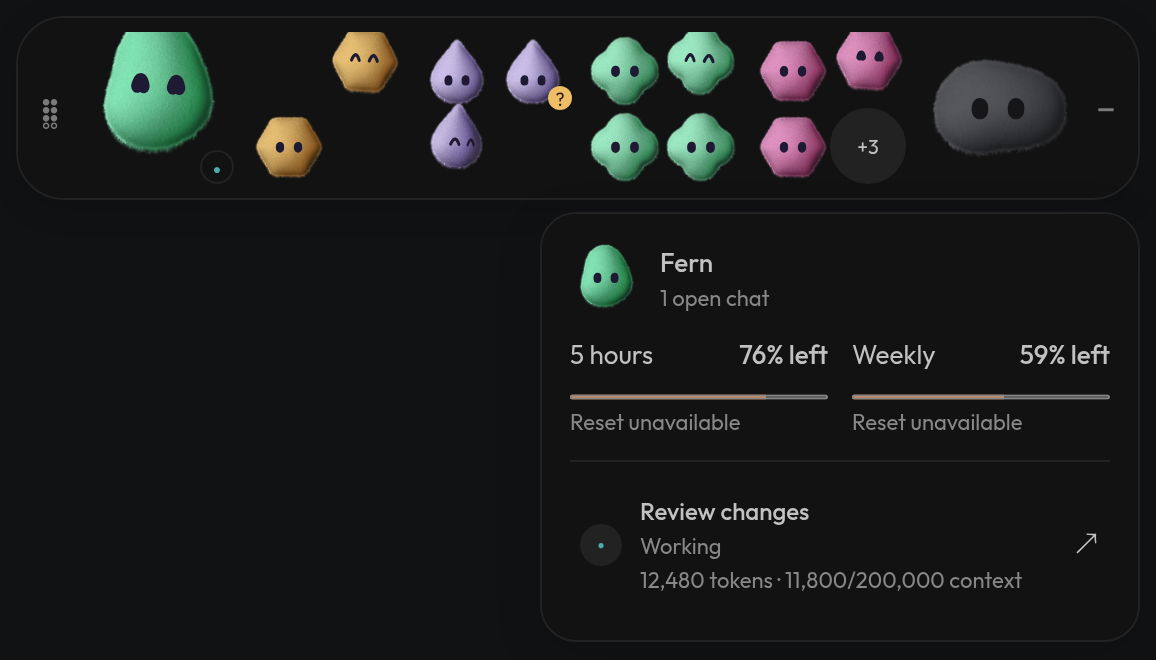
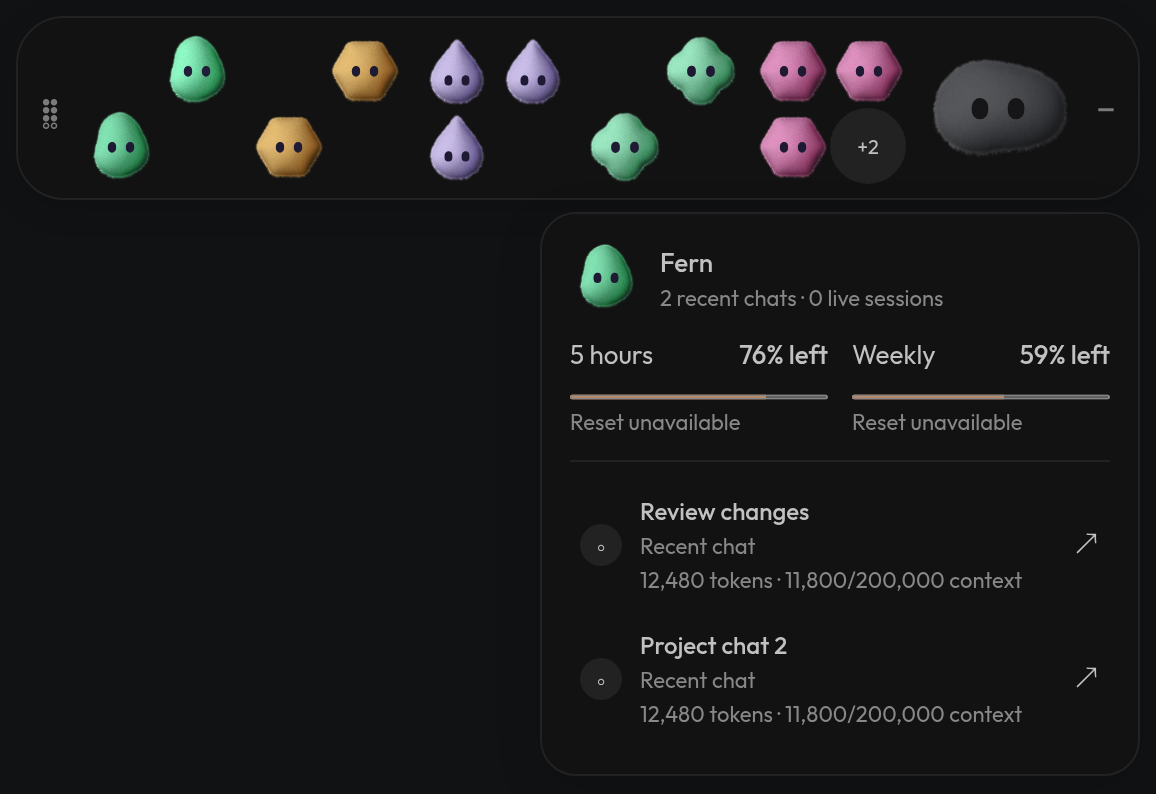
updated 1.7.2 downloads and the orbit guide

diff --git a/next/app/docs/page.tsx b/next/app/docs/page.tsx
@@ -11,7 +11,7 @@ const sections = [["orbit", "Orbit and Orbiters"], ["cli", "Command-line interfa
 export default function Docs() {
   return <main id="main" className="docs-layout page-width"><aside className="docs-sidebar"><p className="eyebrow">THE FIELD GUIDE</p><nav aria-label="Documentation sections">{sections.map(([id, label]) => <a key={id} href={`#${id}`}>{label}</a>)}</nav><a className="sidebar-source" href={repository}>Browse the source ↗</a></aside><article className="docs-content">
     <div className="docs-intro"><p className="eyebrow">GET COMFORTABLE</p><h1>A workspace<br />for each account.</h1><p>Everything you need to install Multi Codex and get your accounts working side by side.</p></div>
-    <section id="orbit"><p className="eyebrow">YOUR DESKTOP COMPANIONS</p><h2>Meet your Orbiters.</h2><p>Orbit brings live Codex Desktop sessions, usage and quiet reminders into a small companion strip. Turn it on or off in Settings; hover for details and click to return to the right chat.</p><Link className="text-link" href="/docs/orbit">Orbit setup and desktop support →</Link></section><section id="cli"><p className="eyebrow">FROM YOUR TERMINAL</p><h2>One account store, a terminal interface.</h2><p>The macOS/Linux CLI manages saved accounts, usage, workspaces and storage through the same native services as the desktop app. Linux x64 is verified on the development laptop; native macOS and ARM64 validation is tracked separately.</p><Link className="text-link" href="/docs/cli">CLI commands, installation and recovery →</Link></section><section id="installation"><span className="section-index">01 / INSTALLATION</span><h2>Start with the launcher.</h2><p>Choose your platform below. On Windows, download the .exe and double-click it to install. The optional install commands download the latest release, verify its checksum, and install the app.</p><InstallBox /><div className="doc-note"><strong>Platform support</strong><p>Linux packages target x86_64: AppImage, DEB and RPM. Mac builds target Apple Silicon on macOS 26 or newer. Windows installers target native x64. The Mac release is unsigned and unnotarized, so the command includes an explicit opt-in.</p><a href="/docs/platform-support">See platform requirements and validation →</a></div><p>Prefer a manual install? Download a package from <a href={latestRelease}>GitHub Releases</a>.</p></section>
+    <section id="orbit"><p className="eyebrow">YOUR DESKTOP COMPANIONS</p><h2>Meet your Orbiters.</h2><p>Orbit keeps two recent Desktop chats per account available while idle, alongside VS Code windows, usage and quiet reminders. Turn it on or off in Settings; hover for details and click to return to the right chat.</p><Link className="text-link" href="/docs/orbit">Orbit setup and desktop support →</Link></section><section id="cli"><p className="eyebrow">FROM YOUR TERMINAL</p><h2>One account store, a terminal interface.</h2><p>The macOS/Linux CLI manages saved accounts, usage, workspaces and storage through the same native services as the desktop app. Linux x64 is verified on the development laptop; native macOS and ARM64 validation is tracked separately.</p><Link className="text-link" href="/docs/cli">CLI commands, installation and recovery →</Link></section><section id="installation"><span className="section-index">01 / INSTALLATION</span><h2>Start with the launcher.</h2><p>Choose your platform below. On Windows, download the .exe and double-click it to install. The optional install commands download the latest release, verify its checksum, and install the app.</p><InstallBox /><div className="doc-note"><strong>Platform support</strong><p>Linux packages target x86_64: AppImage, DEB and RPM. Mac builds target Apple Silicon on macOS 26 or newer. Windows installers target native x64. The Mac release is unsigned and unnotarized, so the command includes an explicit opt-in.</p><a href="/docs/platform-support">See platform requirements and validation →</a></div><p>Prefer a manual install? Download a package from <a href={latestRelease}>GitHub Releases</a>.</p></section>
     <section id="vscode"><span className="section-index">VS CODE EXTENSION</span><h2>Switch accounts in the window you’re using.</h2><p>Install the free pre-release of <a href={vscodeMarketplace}>Multi Codex from the VS Code Marketplace</a>. It works with the official Codex extension on Linux x64, macOS 26+ on Intel and Apple Silicon, and Windows x64. The desktop app and a separate Codex CLI installation are optional.</p><p>For version 0.2.1, download the matching <a href="https://github.com/wrestle-R/multi-codex/releases/tag/v1.4.1">platform VSIX from GitHub</a> and use <strong>Extensions: Install from VSIX…</strong> if the version or platform is not available in Marketplace yet.</p><ol className="doc-steps"><li><strong>Open Multi Codex in the activity bar</strong><p>The extension reads the same local account store as the desktop app. Your saved accounts appear automatically under the same OS user.</p></li><li><strong>Add an account if you’re starting fresh</strong><p>Use + at the top of Accounts to sign in with a browser or import an existing login. Adding an account here also makes it available to the desktop app.</p></li><li><strong>Click the account you want to use</strong><p>The extension connects switching automatically on compatible Codex builds. It keeps the current window and chat open, and blocks switching during observed active work or approvals.</p></li><li><strong>Check all accounts at once</strong><p>Use Check Usage at the top of Accounts to refresh every saved account. Remaining limits and reset times appear beside each name, with progress while checking. Use an account’s usage icon to check just that account. Refresh reads account changes from the desktop app.</p></li></ol><a className="button primary" href={vscodeMarketplace}>Install the pre-release <span aria-hidden="true">↗</span></a><div className="doc-note"><strong>Compatibility</strong><p>This preview uses private Codex integration hooks. Clear queued follow-ups before switching. If a backend is incompatible, the extension shows an error and keeps the window open. Local VS Code is supported; remote SSH, containers, WSL and browser editors are not supported.</p><a href="/docs/extension">Read extension compatibility details →</a></div><p>If saved desktop accounts are missing, check that VS Code runs as the same OS user. For a custom account store, set <strong>Multi Codex: Data Directory</strong> to the desktop app’s account directory and use Refresh.</p></section>
     <section id="menu-bar"><span className="section-index">MAC MENU BAR</span><h2>Your accounts, a click away.</h2><p>Use the Multi Codex icon at the top of your Mac. Pick an account, then choose <strong>Open VS Code</strong>, <strong>Open Codex</strong>, or <strong>Open CLI</strong>. Each submenu shows only installed supported apps. Launching uses the same folder preferences and safety checks as the main window.</p><p><strong>Open Multi Codex</strong> restores the maximized window. <strong>Refresh All Usage</strong> checks every saved account. Closing the window keeps the app in the menu bar; <strong>Quit Multi Codex</strong> fully exits the launcher.</p><p>Quitting Multi Codex leaves separately launched VS Code, Codex and CLI sessions open.</p></section>
     <section id="first-account"><span className="section-index">02 / YOUR FIRST ACCOUNT</span><h2>Add a login of your own.</h2><p>Open Multi Codex, click <strong>Add account</strong>, give it a name, and choose how to connect it:</p><ol className="doc-steps"><li><strong>Sign in with browser</strong><p>Follow the sign-in link and enter the one-time code to connect a ChatGPT account.</p></li><li><strong>Import current</strong><p>Save a copy of your existing Codex login. Your original login stays in place.</p></li><li><strong>Paste JSON</strong><p>Paste an existing Codex <code>auth.json</code> into the desktop app. Keep it private; never paste credentials into a website or GitHub issue.</p></li></ol><p>Accounts appear in plan order: Pro, Plus, Go, then Free. Usage refreshes when the app opens.</p></section>

diff --git a/next/app/page.tsx b/next/app/page.tsx
@@ -16,7 +16,7 @@ export default function Home() {
       <Link className="text-link" href="/docs/cli">Use Multi Codex from a terminal <span aria-hidden="true">→</span></Link><p className="platform-line"><span>Linux</span><span>Apple Silicon Mac</span><span>Windows x64</span><span>Open source</span></p>
     </div><div className="hero-visual"><div className="visual-label"><span>ONE LAUNCHER, YOUR WHOLE LINEUP</span><span aria-hidden="true">ACCOUNT DASHBOARD</span></div><div className="screenshot-frame"><ThemedScreenshot light={accountsLight} dark={accountsDark} alt="Multi Codex account dashboard showing separate accounts, usage limits and launch buttons for VS Code, Codex and CLI" priority sizes="(max-width: 900px) 100vw, 60vw" /></div><div className="visual-footnote"><span className="small-mark" aria-hidden="true">↳</span>Everything in its own space.<span className="caption-end">Your default login stays yours.</span></div></div></section>
     <section className="feature-strip page-width" aria-label="Features"><div><span className="feature-number">01</span><h2>Accounts stay separate.</h2><p>Each account has its own saved sign-in, app data and memory. Shared chats keep their full history.</p></div><div><span className="feature-number">02</span><h2>Launch your way.</h2><p>VS Code, Codex desktop, or CLI in your favorite installed terminal.</p></div><div><span className="feature-number">03</span><h2>Keep an eye on usage.</h2><p>Limits at a glance, with quiet reminders before your usage resets expire.</p></div></section>
-    <section id="orbit" className="orbit-section page-width" aria-labelledby="orbit-title"><div><p className="eyebrow">PREVIEW · MEET YOUR ORBITERS</p><h2 id="orbit-title">A little Orbit.<br />A closer look.</h2><p>Keep Codex Desktop accounts in view. Your Orbiters show live sessions and quiet reminders. Hover for usage; click to return to the right chat.</p><p className="orbit-compatibility">macOS 26+ · Hyprland · GNOME · KDE</p><Link className="text-link" href="/docs/orbit">Set up Orbit <span aria-hidden="true">→</span></Link></div><div className="orbit-screenshot"><Image src={orbitScreenshot} alt="Orbiters with live session dots and expanded usage, shown with fictional accounts" sizes="(max-width: 900px) 90vw, 58vw" /></div></section>
+    <section id="orbit" className="orbit-section page-width" aria-labelledby="orbit-title"><div><p className="eyebrow">MEET YOUR ORBITERS</p><h2 id="orbit-title">A little Orbit.<br />A closer look.</h2><p>Keep two recent Desktop chats per account within reach, even while idle. Your Orbiters also show VS Code windows and quiet reminders. Hover for usage; click to return to the right chat.</p><p className="orbit-compatibility">macOS 26+ · Hyprland · GNOME · KDE</p><Link className="text-link" href="/docs/orbit">Set up Orbit <span aria-hidden="true">→</span></Link></div><div className="orbit-screenshot"><Image src={orbitScreenshot} alt="Orbiters with live session dots and expanded usage, shown with fictional accounts" sizes="(max-width: 900px) 90vw, 58vw" /></div></section>
     <section className="getting-started page-width"><div><p className="eyebrow">SMALL SETUP. MORE ROOM TO WORK.</p><h2>Up and running<br />in a few minutes.</h2><p>Install the launcher. Add an account. Choose a folder and make it your own.</p><Link className="text-link" href="/docs#first-account">Follow the quick start <span aria-hidden="true">→</span></Link></div><InstallBox /></section>
     <section id="vscode" className="extension-section page-width" aria-labelledby="extension-title"><div><p className="eyebrow">ALREADY IN VS CODE?</p><h2 id="extension-title">Your accounts.<br />The same window.</h2><p>Use your saved desktop accounts inside VS Code, or start with the extension on its own. Choose an account to switch the current Codex panel and check its usage.</p><a className="button primary" href={vscodeMarketplace}>Install from Marketplace <span aria-hidden="true">↗</span></a><p className="extension-platforms">Free pre-release · Linux x64 · macOS 26+ on Intel and Apple Silicon · Windows x64</p></div><div className="extension-steps"><ol><li><span>01</span><div><h3>Install the extension</h3><p>Choose the pre-release of Multi Codex. The official Codex extension is required; the desktop app and Codex CLI are optional.</p></div></li><li><span>02</span><div><h3>Find your saved accounts</h3><p>Open Multi Codex in the activity bar. Existing desktop accounts appear automatically. Use + to add your first account if you’re starting fresh.</p></div></li><li><span>03</span><div><h3>Choose an account</h3><p>Click its row to use it in the current Codex window. Switching is blocked while Codex is working.</p></div></li></ol><Link className="text-link" href="/docs#vscode">Extension setup and compatibility <span aria-hidden="true">→</span></Link></div></section>
     <section className="notes-section page-width"><div><p className="eyebrow">A FEW THOUGHTFUL DETAILS</p><h2>Fits into your day.</h2></div><div className="detail-list"><article><span aria-hidden="true">⌘</span><div><h3>Your terminal, your choice</h3><p>Choose Kitty, Ghostty, Terminal, Konsole and other supported terminals in Launch settings.</p></div></article><article><span aria-hidden="true">◷</span><div><h3>A heads-up before resets expire</h3><p>Available resets expiring within 48 hours appear together. At most twice a day, at least four hours apart.</p></div></article><article><span aria-hidden="true">◐</span><div><h3>Six palettes. Light and dark.</h3><p>Sage, Ocean, Sand, Rose, Plum and Orange. A quieter home for your accounts, whatever the hour.</p></div></article></div></section>

diff --git a/next/tests/site.spec.ts b/next/tests/site.spec.ts
@@ -19,12 +19,12 @@ test("extension installation links use the public Marketplace and explain shared
 })
 
 test("changelog groups selected updates by series and preserves version links and permalinks", async ({ page }) => {
-  const tags = ["v1.7.1", "v1.7.0", "v1.6.1", "v1.5.3", "v1.5.2", "v1.5.1", "v1.5.0", "v1.4.1", "v1.4.0", "v1.3.8", "v1.3.7", "v1.3.6", "v1.3.5", "v1.2.3", "v1.2.1", "v1.2.0", "v1.1.7", "v1.1.6", "v1.1.3", "v1.1.2", "v1.1.1", "v1.0.2", "v1.0.0", "v0.2.0", "v0.1.1", "v0.1.0"]
+  const tags = ["v1.7.2", "v1.7.1", "v1.7.0", "v1.6.1", "v1.5.3", "v1.5.2", "v1.5.1", "v1.5.0", "v1.4.1", "v1.4.0", "v1.3.8", "v1.3.7", "v1.3.6", "v1.3.5", "v1.2.3", "v1.2.1", "v1.2.0", "v1.1.7", "v1.1.6", "v1.1.3", "v1.1.2", "v1.1.1", "v1.0.2", "v1.0.0", "v0.2.0", "v0.1.1", "v0.1.0"]
   await page.goto("/releases?channel=all")
   const groups = page.locator(".release-group")
   await expect(groups).toHaveCount(10)
   expect(await groups.locator(".release-group-heading .eyebrow").allTextContents()).toEqual(["1.7.x", "1.6.x", "1.5.x", "1.4.x", "1.3.x", "1.2.x", "1.1.x", "1.0.x", "0.2.x", "0.1.x"])
-  await expect(page.locator(".release-history-summary")).toContainText("Latest stable: v1.7.1")
+  await expect(page.locator(".release-history-summary")).toContainText("Latest stable: v1.7.2")
   await expect(page.locator(".release-history-summary")).toContainText("Selected updates")
   const timeline = page.locator(".release-timeline")
   const entries = timeline.locator(":scope > li")
@@ -40,7 +40,7 @@ test("changelog groups selected updates by series and preserves version links an
     expect(await entry.locator("article li").count()).toBeGreaterThanOrEqual(1)
     await expect(entry.getByRole("link", { name: `Full release details for ${tag} →` })).toHaveAttribute("href", `/releases/${tag}`)
   }
-  await expect(page.locator("#v1\\.7\\.1")).toContainText("Latest stable")
+  await expect(page.locator("#v1\\.7\\.2")).toContainText("Latest stable")
   await expect(page.getByText("Latest stable", { exact: true })).toHaveCount(1)
   await timeline.getByRole("link", { name: "v0.1.0 permalink", exact: true }).click()
   await expect(page).toHaveURL(/#v0\.1\.0$/)
@@ -74,7 +74,7 @@ test("showcase, docs and changelog navigate with working release links and no ho
     await page.goto(url)
     await expect(page.getByRole("heading", { level: 1, name: heading })).toBeVisible()
     expect(await page.evaluate(() => document.documentElement.scrollWidth)).toBeLessThanOrEqual(page.viewportSize()!.width)
-    await expect(page.getByRole("navigation", { name: "Main navigation" }).getByRole("link", { name: "Download" })).toHaveAttribute("href", "https://github.com/wrestle-R/multi-codex/releases/tag/v1.7.1")
+    await expect(page.getByRole("navigation", { name: "Main navigation" }).getByRole("link", { name: "Download" })).toHaveAttribute("href", "https://github.com/wrestle-R/multi-codex/releases/tag/v1.7.2")
   }
   await page.getByRole("navigation", { name: "Main navigation" }).getByRole("link", { name: "Docs", exact: true }).click()
   await expect(page).toHaveURL(/\/docs$/)
@@ -122,7 +122,7 @@ test("Windows commands, menu-bar behavior and migrated detailed guides are acces
   await page.goto("/docs")
   const install = page.locator("#installation .install-box")
   await install.getByRole("button", { name: "Windows", exact: true }).click()
-  const installerUrl = "https://github.com/wrestle-R/multi-codex/releases/download/v1.7.1/Multi.Codex_1.7.1_x64-setup.exe"
+  const installerUrl = "https://github.com/wrestle-R/multi-codex/releases/download/v1.7.2/Multi.Codex_1.7.2_x64-setup.exe"
   await expect(install.getByRole("link", { name: "Download Windows .exe" })).toHaveAttribute("href", installerUrl)
   await expect(install).toContainText("double-click")
   await expect(install.getByRole("button", { name: "Copy command" })).not.toBeVisible()

diff --git a/next/lib/releases.ts b/next/lib/releases.ts
@@ -2,6 +2,11 @@
 // Full published notes are stored in content/releases and rendered on this website.
 // Draft validation candidates are excluded from this public history.
 export const releaseHistory = [
+  { tag: "v1.7.2", stability: "stable" as const, publishedAt: "2026-10-17T06:31:06Z", title: "Persistent recent chats and a quieter Orbit", highlights: [
+    "Two recent Desktop chats per account stay available while idle and navigate to their exact conversation.",
+    "Codex Desktop opens directly without selecting or opening a project folder.",
+    "Idle avatars are still; a small working-status dot and static attention reminders replace continuous motion.",
+  ] },
   { tag: "v1.7.1", stability: "stable" as const, publishedAt: "2026-10-16T03:51:46Z", title: "Orbit sessions and reliable updates", highlights: [
     "The desktop launcher owns Orbit for Desktop, CLI and VS Code. Open editor windows stay visible on New Chat and navigate to their owning window.",
     "Hyprland gets a fixed layer overlay; native GNOME, Plasma and Mac checks cover visibility, fullscreen and close-to-tray behavior.",

diff --git a/README.md b/README.md
@@ -6,7 +6,7 @@ Manage Codex accounts across VS Code, the Codex app, and CLI while keeping your 
 
 ## Orbit
 
-Orbit keeps your accounts in view with a permanent companion for each account: an **Orbiter**. Two chats use diagonal mini avatars; three or four use the corners, and additional chats stay reachable through overflow. Open accounts animate gently; inactive accounts are gray and still. Hover for usage and sessions, then click to return to the owning chat or app.
+Orbit keeps your accounts in view with a permanent companion for each account: an **Orbiter**. Each account keeps two recent Desktop chat shortcuts available while idle. Click to open the exact conversation in that account’s app. VS Code window shortcuts remain available. Two shortcuts use diagonal mini avatars; additional sessions stay reachable through the corners and overflow. Idle avatars are still, working uses a small optional status-dot pulse, and attention reminders use a static icon. Hover for usage and session details.
 
 Enable or disable Orbit in **Settings**, and adjust size, display, animation and sound under **Orbit**. Available on Apple Silicon macOS 26+ and supported Linux desktops (Hyprland, GNOME and KDE). Closing the launcher keeps Orbit and the tray running; choosing Quit exits them.
 
@@ -14,24 +14,24 @@ Enable or disable Orbit in **Settings**, and adjust size, display, animation and
 
 ## Install
 
-These instructions select stable v1.7.1. The earlier v1.7.0 release remains a preview. See the [release channels](https://multi-codex.vercel.app/releases?channel=all) for previews.
+These instructions select stable v1.7.2. The earlier v1.7.0 release remains a preview. See the [release channels](https://multi-codex.vercel.app/releases?channel=all) for previews.
 
 ### Windows x64
 
-[Download the Windows installer (.exe)](https://github.com/wrestle-R/multi-codex/releases/download/v1.7.1/Multi.Codex_1.7.1_x64-setup.exe), double-click it, and follow setup. Then open Multi Codex from the Start menu.
+[Download the Windows installer (.exe)](https://github.com/wrestle-R/multi-codex/releases/download/v1.7.2/Multi.Codex_1.7.2_x64-setup.exe), double-click it, and follow setup. Then open Multi Codex from the Start menu.
 
 Or run in PowerShell:
 
 ```powershell
 Invoke-WebRequest https://raw.githubusercontent.com/wrestle-R/multi-codex/main/scripts/install-app.ps1 -UseBasicParsing -OutFile "$env:TEMP/install-multi-codex.ps1"
-powershell -NoProfile -ExecutionPolicy Bypass -File "$env:TEMP/install-multi-codex.ps1" -Version 1.7.1
+powershell -NoProfile -ExecutionPolicy Bypass -File "$env:TEMP/install-multi-codex.ps1" -Version 1.7.2
 ```
 
 ### Linux x64
 
 ```bash
 curl -fsSL https://raw.githubusercontent.com/wrestle-R/multi-codex/main/scripts/install-app.sh -o /tmp/install-multi-codex.sh
-MULTI_CODEX_TAG=v1.7.1 bash /tmp/install-multi-codex.sh
+MULTI_CODEX_TAG=v1.7.2 bash /tmp/install-multi-codex.sh
 ```
 
 ### macOS (Apple Silicon, macOS 26+)
@@ -40,8 +40,10 @@ The scripts install and update `/Applications/Multi Codex.app`. The current macO
 
 ```bash
 curl -fsSL https://raw.githubusercontent.com/wrestle-R/multi-codex/main/scripts/install-app.sh -o /tmp/install-multi-codex.sh
-MULTI_CODEX_TAG=v1.7.1 MULTI_CODEX_ALLOW_UNSIGNED_MAC=1 bash /tmp/install-multi-codex.sh
+MULTI_CODEX_TAG=v1.7.2 MULTI_CODEX_ALLOW_UNSIGNED_MAC=1 bash /tmp/install-multi-codex.sh
 ```
+
+Codex Desktop opens directly without a project-folder picker. VS Code and CLI still let you choose their project folder.
 
 ## Update
 
@@ -49,27 +51,27 @@ Use the launcher’s **Update** button for an in-app update. **Settings → Rele
 
 ### Windows x64
 
-Download and run the [Windows installer (.exe)](https://github.com/wrestle-R/multi-codex/releases/download/v1.7.1/Multi.Codex_1.7.1_x64-setup.exe) again to update.
+Download and run the [Windows installer (.exe)](https://github.com/wrestle-R/multi-codex/releases/download/v1.7.2/Multi.Codex_1.7.2_x64-setup.exe) again to update.
 
 Or run in PowerShell:
 
 ```powershell
 Invoke-WebRequest https://raw.githubusercontent.com/wrestle-R/multi-codex/main/scripts/update-app.ps1 -UseBasicParsing -OutFile "$env:TEMP/update-multi-codex.ps1"
-powershell -NoProfile -ExecutionPolicy Bypass -File "$env:TEMP/update-multi-codex.ps1" -Version 1.7.1
+powershell -NoProfile -ExecutionPolicy Bypass -File "$env:TEMP/update-multi-codex.ps1" -Version 1.7.2
 ```
 
 ### Linux x64
 
 ```bash
 curl -fsSL https://raw.githubusercontent.com/wrestle-R/multi-codex/main/scripts/update-app.sh -o /tmp/update-multi-codex.sh
-MULTI_CODEX_TAG=v1.7.1 bash /tmp/update-multi-codex.sh
+MULTI_CODEX_TAG=v1.7.2 bash /tmp/update-multi-codex.sh
 ```
 
 ### macOS (Apple Silicon, macOS 26+)
 
 ```bash
 curl -fsSL https://raw.githubusercontent.com/wrestle-R/multi-codex/main/scripts/update-app.sh -o /tmp/update-multi-codex.sh
-MULTI_CODEX_TAG=v1.7.1 MULTI_CODEX_ALLOW_UNSIGNED_MAC=1 bash /tmp/update-multi-codex.sh
+MULTI_CODEX_TAG=v1.7.2 MULTI_CODEX_ALLOW_UNSIGNED_MAC=1 bash /tmp/update-multi-codex.sh
 ```
 
 <img src="tauri/public/accounts_screenshot.png" alt="Multi Codex accounts" width="100%" />

diff --git a/next/content/guides/orbit.md b/next/content/guides/orbit.md
@@ -1,6 +1,6 @@
 # Orbit and Orbiters
 
-Orbit is the optional desktop companion strip in Multi Codex. Each account has a permanent **Orbiter** with its own appearance. The published v1.7.0 build is a preview with known issues; stable v1.6.1 does not include Orbit. See [all releases](/releases?channel=all) before choosing a preview.
+Orbit is the optional desktop companion strip in Multi Codex. Each account has a permanent **Orbiter** with its own appearance. Stable v1.7.2 keeps recent Desktop conversations available independently of live activity. See [release details](/releases/v1.7.2).
 
 ## Turn Orbit on or off
 
@@ -8,11 +8,15 @@ Open **Settings**, change **Enable Orbit**, and save. Turning Orbit off hides th
 
 ## Sessions and usage
 
-Launch Codex Desktop through Multi Codex. Orbit counts the local chat selected in each Desktop window, excluding retained backend chats and saved history. The current repair also observes running CLI sessions and selected conversations through the existing VS Code bridge. Older Desktop windows need their next managed launch to connect UI visibility; unavailable visibility is shown explicitly.
+Orbit keeps the two most recent non-archived conversations from each account’s saved Codex history. They stay visible while idle, on New Chat, or when live activity reporting disconnects. These are recent shortcuts, not a count of currently open conversations. An account with only one saved chat shows one shortcut. Archived chats and background subagent conversations are excluded; if the index is temporarily unavailable, saved shortcuts remain with an availability notice.
 
-An Orbiter represents an account. Two chats use diagonal mini avatars; three or four use the corners. More than four sessions use an overflow control. Hover for sessions and reported usage. Click to open the exact Desktop chat, or focus the owning CLI or VS Code window. Open accounts animate gently; inactive accounts stay gray and still when the only-open filter is off.
+Click a recent shortcut to navigate to that exact chat in the account’s existing Desktop app. If the account app is closed, clicking opens it normally. Opening Desktop from the launcher no longer asks for a project folder or opens a project.
 
-Questions, approvals and possible requests for your help receive a badge and a quiet visual popup. Return to Codex to respond. Existing Desktop instances are not force-restarted to connect visibility.
+VS Code keeps one shortcut per managed editor window, including an empty New Chat composer. Clicking focuses that window. CLI sessions remain available where the terminal window can be identified; ambiguous navigation reports an error instead of selecting another window.
+
+Two shortcuts use diagonal mini avatars; three or four use the corners, with overflow for more. Hover for session details and reported usage. Idle avatars are still. Only a small working-status dot can pulse when enabled; Reduce motion disables that pulse too.
+
+Questions, approvals and possible requests for help receive a badge and a simple static reminder with the account name. Click to return to the actual client to respond. Live activity and attention require a connected managed client; the recent Desktop shortcuts do not. Existing clients are never force-restarted.
 
 ## Desktop behavior
 

diff --git a/next/content/guides/platform-support.md b/next/content/guides/platform-support.md
@@ -17,7 +17,7 @@ Standalone isolation is enabled only for desktop app version `26.930.51102` on L
 
 The first-run welcome saves platform and installed-app detection; installed apps are checked again later. Settings offers **VS Code**, **Codex**, **All available** and **CLI only**, disabling unavailable targets. The CLI button appears alongside the selected apps whenever a CLI is available. Existing launch preferences remain in place, and an unverified standalone version cannot be selected.
 
-**Preferred folder + Browse** uses the built-in folder picker. The saved folder is its starting location on each launch; a different project can be chosen then. On Linux, **Show desktop picker** is on by default and can be turned off. The option does not appear on macOS or Windows. Mac and Windows launches continue on the current desktop after the folder choice. Executable paths and global Codex home are under Advanced.
+**Preferred folder + Browse** uses the built-in folder picker. The saved folder is the starting location for VS Code and CLI project selection; a different project can be chosen then. Codex Desktop launches directly without selecting or opening a project. On Linux, **Show desktop picker** is on by default and can be turned off. The option does not appear on macOS or Windows. Mac and Windows launches continue on the current desktop. Executable paths and global Codex home are under Advanced.
 
 Each account keeps its existing `profiles/<id>/codex-home` for VS Code, standalone and CLI launches. Standalone desktop cookies and app state use a separate `desktop-data` directory for that account; VS Code keeps its separate user-data directory and extensions. The app preserves the normal browser HOME for sign-in links. A desktop sign-out stays signed out on restart and does not silently restore stale credentials from the keyring. Editing or deleting an account and cleaning its cache are blocked while an app or CLI is using it. The global auth file is not changed by an isolated launch. [Linux and Mac authenticated isolation evidence](https://github.com/wrestle-R/multi-codex/blob/main/release/evidence/v1.3.5-auth-isolation.json)
 
